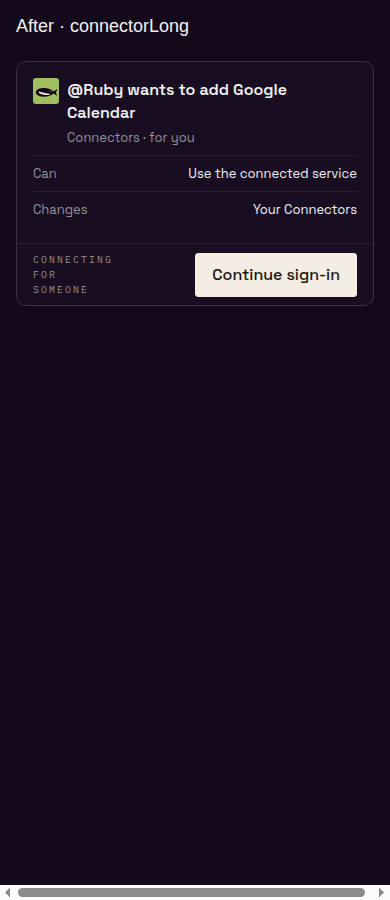
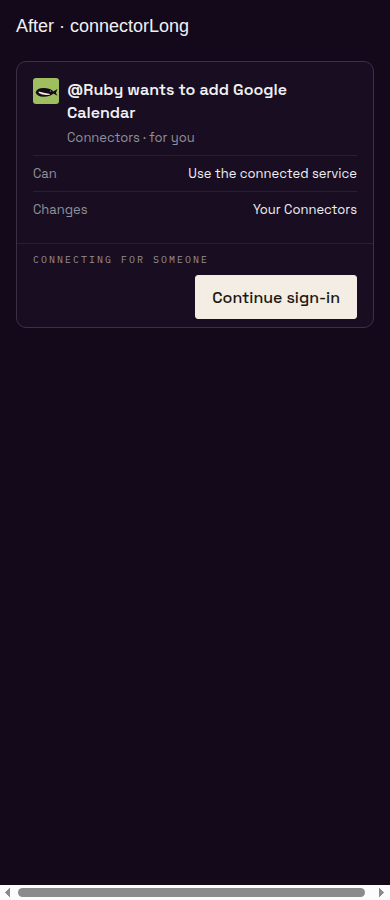
Keep the connector continuation footer note on one line

Changed region(s): [[0.4, 0.28, 0.9231, 0.3733], [0.0923, 0.3111, 0.2154, 0.3422], [0.3077, 0.28, 0.3692, 0.3111]]

diff --git a/apps/mobile/sources/test/ui-repair-audit.browser.test.ts b/apps/mobile/sources/test/ui-repair-audit.browser.test.ts
@@ -3,114 +3,129 @@ import path from 'node:path';
 import { it, expect } from 'vitest';
 import { runBrowserProof, webProofShims } from './browserProof';
 const out = process.env.UI_AUDIT_DIR;
-for (const state of process.env.UI_AUDIT_FIXED ? ['fixed'] : ['before', 'after'])
-  for (const section of [
-    'rail',
-    'turn',
-    'corner',
-    'repo',
-    'artifact',
-    'desktopArtifact',
-    'usage',
-    'buttons',
-    'roster',
-    'composer',
-    'voice',
-    'update',
-    'composeMenu',
-    'needs',
-    'error',
-    'modelRows',
-    'trayFooter',
-    'connectorLong',
-    'workflow',
-    'attachment',
-    'inspector',
-    'repositoryChoice',
-    'viewer',
-    'close',
-    'destinations',
-    'rows',
-    'symbols',
-    'signin',
-    'model',
-    'usageStates',
-    'connectorActions',
-    'repoPending',
-    'failure',
-    'ended',
-  ]) {
-    it.skipIf(!out)(
-      `${state} ${section}`,
-      async () => {
-        const mobile =
-          state === 'before' ? process.env.UI_AUDIT_BEFORE_MOBILE! : process.env.UI_AUDIT_MOBILE!;
-        const shims = webProofShims(mobile);
-        shims['react-native-reanimated'] +=
-          '\nexport const FadeOut=FadeInDown;export const FadeOutDown=FadeInDown;export const FadeIn=FadeInDown;export const FadeInUp=FadeInDown;export const FadeOutUp=FadeInDown;export const LinearTransition=FadeInDown;export const withSpring=v=>v;export const interpolateColor=(_v,_i,o)=>o[o.length-1];';
-        shims['expo-router'] =
-          'export const router={};export const useRouter=()=>({});export const useLocalSearchParams=()=>({repositoryPicker:"proof"});';
-        shims['@/sync/transport/monolith-operation'] =
-          'export const phoneOperationFailureReason=()=>"unavailable";export const monolithPhoneOperation=async()=>({access:"proof.9999999999999"});';
-        shims['react-native-view-shot'] = 'export const captureRef=async()=>"";export default {};';
-        shims['expo-clipboard'] =
-          'export const getStringAsync=async()=>"";export const setStringAsync=async()=>true;export const setImageAsync=async()=>true;';
-        shims['@/hooks/useUpdates'] =
-          'export const useUpdates=()=>({promptVisible:true,reloadApp:()=>{},dismissPrompt:()=>{}});';
-        shims['react-native-unistyles'] = shims['react-native-unistyles'].replace(
-          'const theme = { buzz: beelineThemes.obsidian };',
-          `import { obsidianTheme } from '${path.join(mobile, 'sources/theme')}'; const theme = { ...obsidianTheme, buzz: beelineThemes.obsidian };`,
+const footerOnly = Boolean(process.env.UI_AUDIT_FOOTER);
+for (const width of footerOnly ? [390, 360] : [390])
+  for (const theme of footerOnly ? ['bone', 'obsidian'] : ['obsidian'])
+    for (const state of process.env.UI_AUDIT_FIXED || footerOnly ? ['fixed'] : ['before', 'after'])
+      for (const section of footerOnly
+        ? ['connectorLong']
+        : [
+            'rail',
+            'turn',
+            'corner',
+            'repo',
+            'artifact',
+            'desktopArtifact',
+            'usage',
+            'buttons',
+            'roster',
+            'composer',
+            'voice',
+            'update',
+            'composeMenu',
+            'needs',
+            'error',
+            'modelRows',
+            'trayFooter',
+            'connectorLong',
+            'workflow',
+            'attachment',
+            'inspector',
+            'repositoryChoice',
+            'viewer',
+            'close',
+            'destinations',
+            'rows',
+            'symbols',
+            'signin',
+            'model',
+            'usageStates',
+            'connectorActions',
+            'repoPending',
+            'failure',
+            'ended',
+          ]) {
+        it.skipIf(!out)(
+          `${state} ${section}${footerOnly ? ` ${width} ${theme}` : ''}`,
+          async () => {
+            const mobile =
+              state === 'before'
+                ? process.env.UI_AUDIT_BEFORE_MOBILE!
+                : process.env.UI_AUDIT_MOBILE!;
+            const shims = webProofShims(mobile);
+            const captureName = `${section}-${state}${footerOnly ? `-${width}-${theme}` : ''}`;
+            shims['react-native-reanimated'] +=
+              '\nexport const FadeOut=FadeInDown;export const FadeOutDown=FadeInDown;export const FadeIn=FadeInDown;export const FadeInUp=FadeInDown;export const FadeOutUp=FadeInDown;export const LinearTransition=FadeInDown;export const withSpring=v=>v;export const interpolateColor=(_v,_i,o)=>o[o.length-1];';
+            shims['expo-router'] =
+              'export const router={};export const useRouter=()=>({});export const useLocalSearchParams=()=>({repositoryPicker:"proof"});';
+            shims['@/sync/transport/monolith-operation'] =
+              'export const phoneOperationFailureReason=()=>"unavailable";export const monolithPhoneOperation=async()=>({access:"proof.9999999999999"});';
+            shims['react-native-view-shot'] =
+              'export const captureRef=async()=>"";export default {};';
+            shims['expo-clipboard'] =
+              'export const getStringAsync=async()=>"";export const setStringAsync=async()=>true;export const setImageAsync=async()=>true;';
+            shims['@/hooks/useUpdates'] =
+              'export const useUpdates=()=>({promptVisible:true,reloadApp:()=>{},dismissPrompt:()=>{}});';
+            shims['react-native-unistyles'] = shims['react-native-unistyles'].replace(
+              'const theme = { buzz: beelineThemes.obsidian };',
+              `import { obsidianTheme } from '${path.join(mobile, 'sources/theme')}'; const theme = { ...obsidianTheme, buzz: beelineThemes.obsidian };`,
+            );
+            shims['./HullDialog'] =
+              'import React from "react";import {View} from "react-native";export const HullModal=({children,visible=true})=>visible?<View>{children}</View>:null;export const HullFloatingSurface=({children})=><View>{children}</View>;export const HullDialog=({children})=><View>{children}</View>;';
+            shims['./HullDialog'] +=
+              `export {HullDialogActions,HullDialogInput} from '${path.join(mobile, 'sources/components/buzz/HullDialog')}';`;
+            shims['@/buzz/onboarding-rollout'] = 'export const useRepositoryOnboarding=()=>true;';
+            shims['react-native-unistyles'] = shims['react-native-unistyles']
+              .replaceAll('beelineThemes.obsidian', `beelineThemes.${theme}`)
+              .replaceAll('obsidianTheme', theme === 'bone' ? 'boneTheme' : 'obsidianTheme');
+            const fonts = [
+              'SpaceGrotesk-Regular',
+              'SpaceGrotesk-Medium',
+              'SpaceGrotesk-SemiBold',
+              'IBMPlexMono-Regular',
+              'IBMPlexMono-SemiBold',
+            ]
+              .map(
+                (font) =>
+                  `@font-face{font-family:'${font}';src:url(data:font/ttf;base64,${readFileSync(path.join(mobile, 'sources/assets/fonts', `${font}.ttf`)).toString('base64')})}`,
+              )
+              .join('');
+            mkdirSync(out!, { recursive: true });
+            const r = await runBrowserProof({
+              mobile,
+              shims,
+              entry: path.join(mobile, 'scripts/ui-repair-audit-proof.tsx'),
+              width,
+              height: section === 'usageStates' ? 1500 : 900,
+              query: `?state=${state === 'fixed' ? 'after' : state}&fixed=${state === 'fixed' ? '1' : '0'}&section=${section}&width=${width}`,
+              head: `<script>window.process={env:{}};window.addEventListener('error',e=>document.getElementById('result').textContent='ERROR '+e.message);</script><style>${fonts}#result{display:none}body{background:${theme === 'bone' ? '#F3EEE4' : '#14091A'}}</style>`,
+              screenshotPath: path.join(out!, `${captureName}.png`),
+            });
+            writeFileSync(path.join(out!, `${captureName}.json`), r.result);
+            expect(r.status, r.stderr).toBe(0);
+            expect(r.result).not.toMatch(/ERROR|PENDING|FAIL/);
+            const data = JSON.parse(r.result);
+            expect(data.text.length, JSON.stringify(data.errors)).toBeGreaterThan(20);
+            if (state === 'fixed') {
+              const metric = (id: string) => data.metrics.find((m: any) => m.id === id);
+              if (section === 'viewer') {
+                const open = metric('computer-session-open-browser'),
+                  close = metric('computer-session-close');
+                expect(open.y + open.height / 2).toBe(close.y + close.height / 2);
+              }
+              if (section === 'connectorLong') {
+                const note = metric('connector-offer-proof-connecting'),
+                  button = metric('connector-offer-proof-continue'),
+                  card = metric('connector-offer-connecting');
+                expect(note.height).toBe(15);
+                expect(note.text.toUpperCase()).toBe('CONNECTING FOR SOMEONE');
+                expect(button.text).toBe('Continue sign-in');
+                expect(card.x + card.width - (button.x + button.width)).toBe(17);
+                expect(card.height).toBe(267);
+              }
+              if (section === 'trayFooter') expect(metric('audit-tray-footer').height).toBe(15);
+            }
+          },
+          90000,
         );
-        shims['./HullDialog'] =
-          'import React from "react";import {View} from "react-native";export const HullModal=({children,visible=true})=>visible?<View>{children}</View>:null;export const HullFloatingSurface=({children})=><View>{children}</View>;export const HullDialog=({children})=><View>{children}</View>;';
-        shims['./HullDialog'] +=
-          `export {HullDialogActions,HullDialogInput} from '${path.join(mobile, 'sources/components/buzz/HullDialog')}';`;
-        shims['@/buzz/onboarding-rollout'] = 'export const useRepositoryOnboarding=()=>true;';
-        const fonts = [
-          'SpaceGrotesk-Regular',
-          'SpaceGrotesk-Medium',
-          'SpaceGrotesk-SemiBold',
-          'IBMPlexMono-Regular',
-          'IBMPlexMono-SemiBold',
-        ]
-          .map(
-            (font) =>
-              `@font-face{font-family:'${font}';src:url(data:font/ttf;base64,${readFileSync(path.join(mobile, 'sources/assets/fonts', `${font}.ttf`)).toString('base64')})}`,
-          )
-          .join('');
-        mkdirSync(out!, { recursive: true });
-        const r = await runBrowserProof({
-          mobile,
-          shims,
-          entry: path.join(mobile, 'scripts/ui-repair-audit-proof.tsx'),
-          width: 390,
-          height: section === 'usageStates' ? 1500 : 900,
-          query: `?state=${state === 'fixed' ? 'after' : state}&fixed=${state === 'fixed' ? '1' : '0'}&section=${section}`,
-          head: `<script>window.process={env:{}};window.addEventListener('error',e=>document.getElementById('result').textContent='ERROR '+e.message);</script><style>${fonts}#result{display:none}body{background:#14091A}</style>`,
-          screenshotPath: path.join(out!, `${section}-${state}.png`),
-        });
-        writeFileSync(path.join(out!, `${section}-${state}.json`), r.result);
-        expect(r.status, r.stderr).toBe(0);
-        expect(r.result).not.toMatch(/ERROR|PENDING|FAIL/);
-        const data = JSON.parse(r.result);
-        expect(data.text.length, JSON.stringify(data.errors)).toBeGreaterThan(20);
-        if (state === 'fixed') {
-          const metric = (id: string) => data.metrics.find((m: any) => m.id === id);
-          if (section === 'viewer') {
-            const open = metric('computer-session-open-browser'),
-              close = metric('computer-session-close');
-            expect(open.y + open.height / 2).toBe(close.y + close.height / 2);
-          }
-          if (section === 'connectorLong')
-            expect(
-              Math.abs(
-                metric('connector-offer-proof-continue').y -
-                  metric('connector-offer-proof-connecting').y,
-              ),
-            ).toBeLessThan(1);
-          if (section === 'trayFooter') expect(metric('audit-tray-footer').height).toBe(15);
-        }
-      },
-      90000,
-    );
-  }
+      }

diff --git a/apps/mobile/sources/components/buzz/TranscriptCard.tsx b/apps/mobile/sources/components/buzz/TranscriptCard.tsx
@@ -110,6 +110,8 @@ export type TranscriptCardProps = {
   codeLabel?: string;
   facts?: readonly { label: string; value: string }[];
   footerNote?: ReactNode;
+  /** Reserve a full footer row for a note that must not compete with actions. */
+  footerNoteOwnRow?: boolean;
   footerNoteTestID?: string;
   footerNoteTone?: 'quiet' | 'failed';
   decisionNote?: boolean;
@@ -262,6 +264,7 @@ export function TranscriptCard({
   codeLabel,
   facts = [],
   footerNote,
+  footerNoteOwnRow = false,
   footerNoteTestID,
   footerNoteTone = 'quiet',
   decisionNote = false,
@@ -539,6 +542,7 @@ export function TranscriptCard({
                   testID={footerNoteTestID}
                   style={[
                     styles.footerNote,
+                    footerNoteOwnRow && styles.footerNoteOwnRow,
                     decisionNote && styles.decisionNote,
                     footerNoteTone === 'failed' && styles.footerNoteFailed,
                   ]}
@@ -894,6 +898,7 @@ const styles = StyleSheet.create((theme) => {
       flex: 1,
     },
     decisionNote: { ...card.type.meta, fontFamily: card.proseRegular, textTransform: 'none', textAlign: 'right', flexBasis: 'auto', flexShrink: 0, flexGrow: 1 },
+    footerNoteOwnRow: { flexBasis: '100%', flexGrow: 0, flexShrink: 0 },
     footerNoteFailed: { color: card.diffRemoved },
     actions: { flexShrink: 1, flexGrow: 1 },
   };

diff --git a/apps/mobile/sources/app/(app)/beeline/chat/RoomMessageVariants.tsx b/apps/mobile/sources/app/(app)/beeline/chat/RoomMessageVariants.tsx
@@ -402,6 +402,7 @@ export const ConnectorOfferCard = React.memo(function ConnectorOfferCard({
               : `connector-offer-${offer.offerId}-waiting`
             : `connector-offer-${offer.offerId}-outcome`
       }
+      footerNoteOwnRow={connecting}
       actions={pending && canAccept && onDecline ? [{ label: 'No', secondary: true, onPress: () => onDecline(offer.offerId), testID: `connector-offer-${offer.offerId}-deny`, disabled: actionId !== null }, ...actions] : actions}
     />
   );

diff --git a/apps/mobile/evidence/ui-repair-audit/README.md b/apps/mobile/evidence/ui-repair-audit/README.md
@@ -25,7 +25,10 @@ a 229 px top gap and adds an emoji paste button.
 The same production-control and HTTP-proxy paths now show:
 
 - Browser link and close share the same vertical centre; the row remains 44 px.
-- The original short `Continue sign-in` action returns the card to 245 px.
+- The short `Continue sign-in` action stays right-aligned. The complete connecting
+  note occupies its own single-line footer row; card height is 267 px at both
+  390 and 360 px. This is 22 px taller than the earlier 245 px version because
+  the note and action now have separate rows instead of squeezing the note.
 - The bookmark footer returns to 15 px with a drawn chevron.
 - Pinch-out leaves the page at top 0, retaining horizontal centering.
 - There is no paste button; desktop clipboard shortcut tests still pass.
@@ -116,3 +119,29 @@ uses its existing ended state. The owner's screenshot instead shows a closed
 remote login page inside a share that is still live. Per commander direction,
 this PR neither infers closure from pixels nor opens or edits Squire work.
 Typing inside the remote login window is also outside this PR.
+
+
+## Owner follow-up: continuation footer
+
+Reproduction **UI-AUDIT-FOOTER-1**: the initial repair kept the card at 245 px
+by squeezing CONNECTING FOR SOMEONE into three lines beside the short action.
+The owner requires one line without an ellipsis at both 390 and 360 px.
+The connector continuation footer now opts into a full-width note row; the
+existing ButtonRow retains right alignment below it. Other card footers keep
+their original layout.
+
+`connectorLong-fixed-{390,360}-{bone,obsidian}.png` and their JSON measurements
+prove the note is 15 px tall (one line), the action remains Continue sign-in,
+and its right edge stays 17 px inside the card edge. All four card heights are
+267 px. `connectorLong-fixed-android-release.png` is the same production card
+in a fresh release-mode Android APK; its XML records the native text bounds.
+
+Repeat the four rendered assertions using a prepared working scratch tree:
+
+```sh
+UI_AUDIT_FOOTER=1 UI_AUDIT_MOBILE=/tmp/ui-fixed/apps/mobile \
+UI_AUDIT_DIR=/tmp/ui-captures npx vitest run \
+sources/test/ui-repair-audit.browser.test.ts --maxWorkers=1 --minWorkers=1
+```
+
+`footer-native.tsx.template` is the dedicated release-mode Android fixture.
